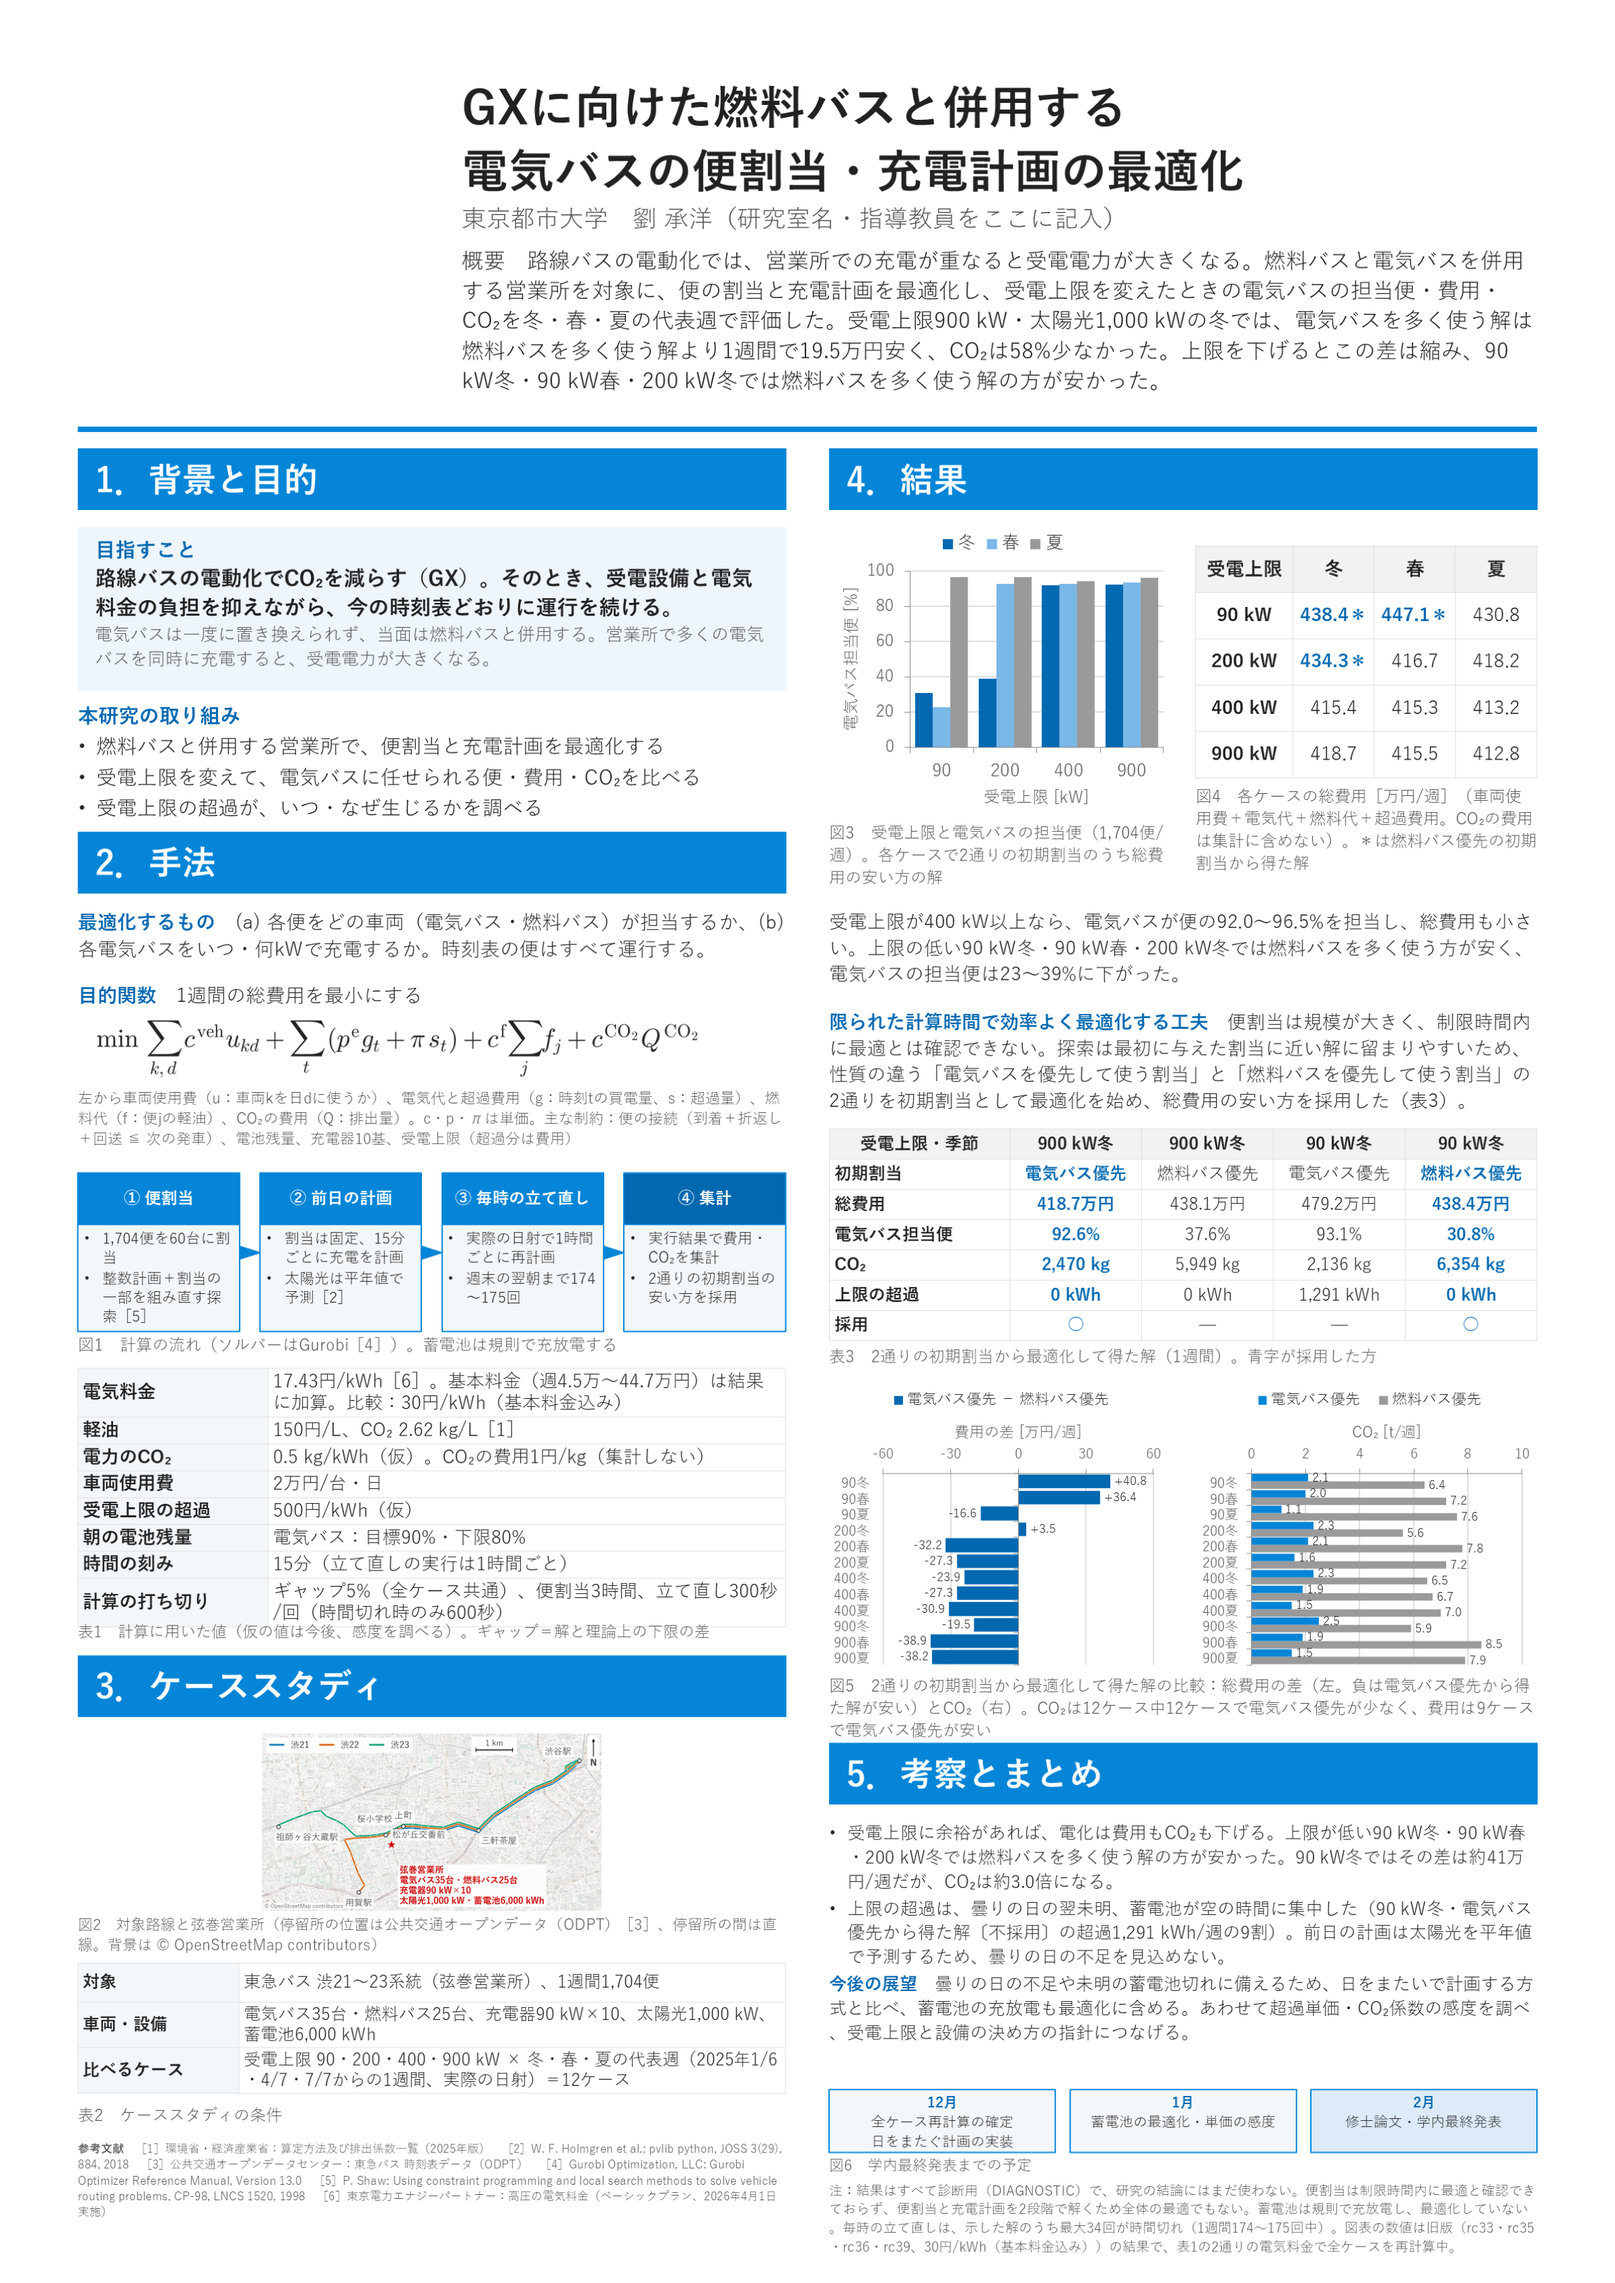
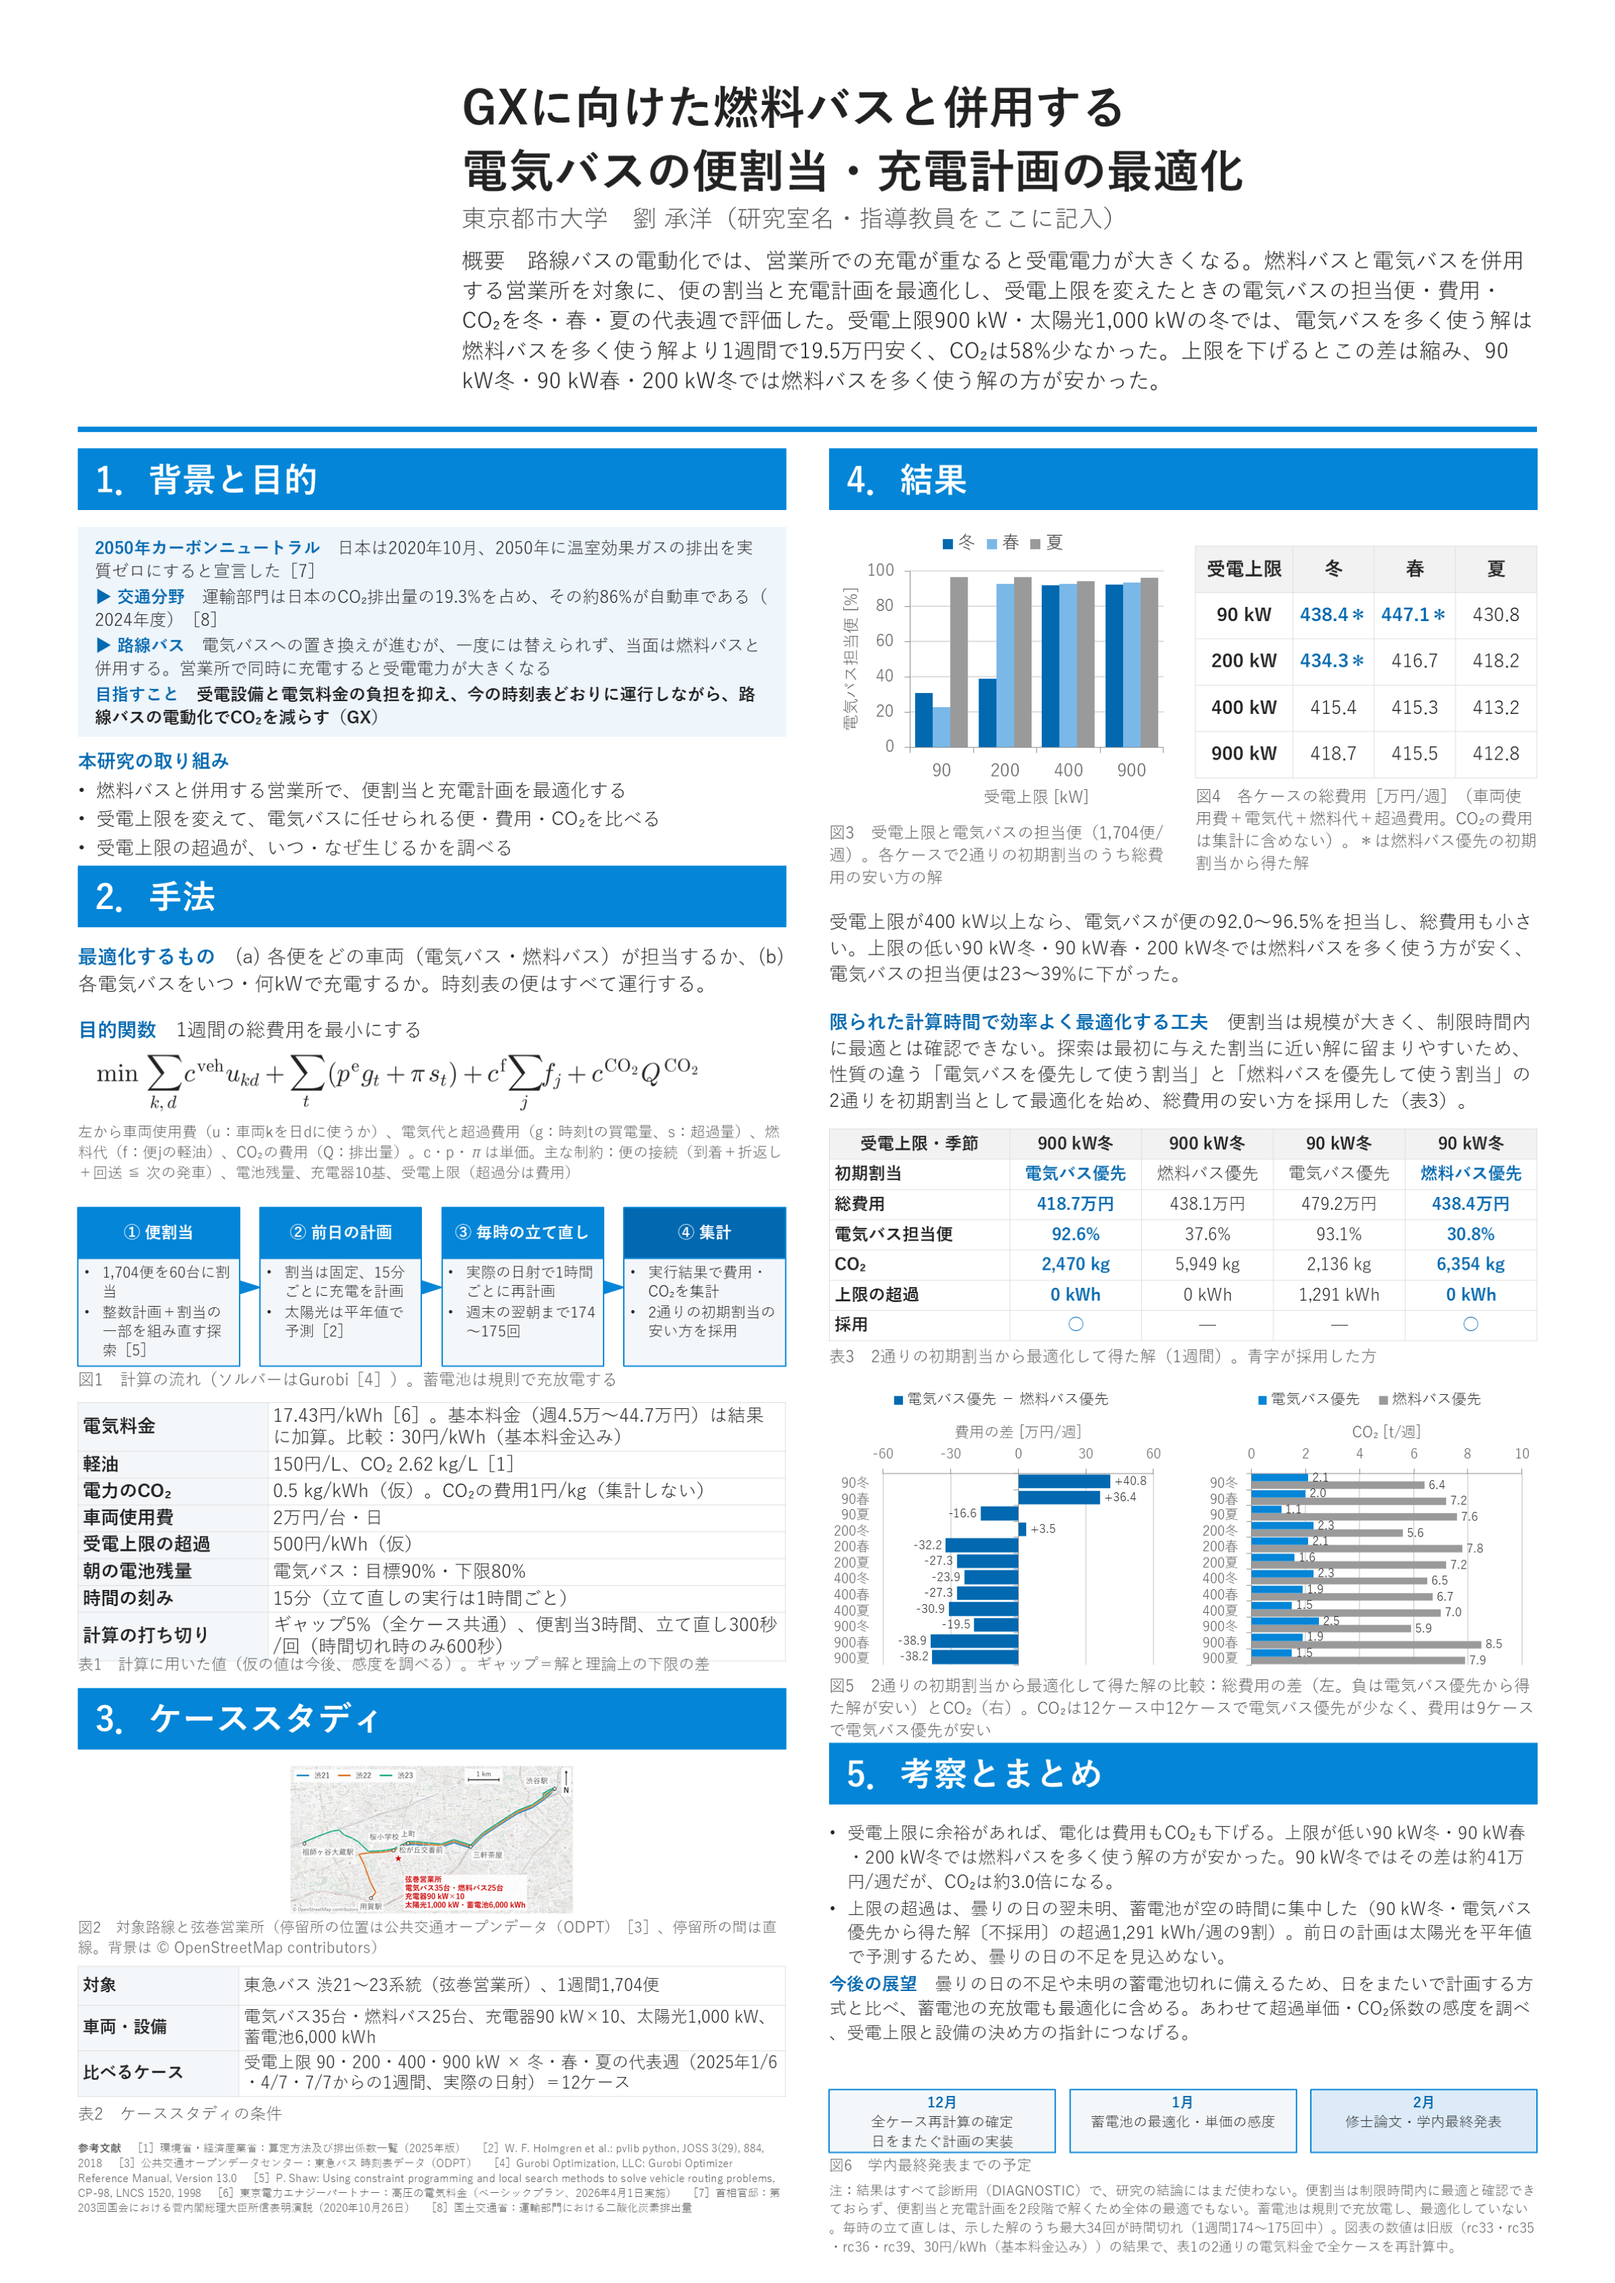
docs(poster): background opens with the 2050 carbon-neutral declaration, then transport (19.3 % of CO2, cars about 86 %, MLIT FY2024) and route buses
References [7] (Prime Minister's policy speech, 2020-10-26) and [8] (MLIT transport CO2 page) added;
left column tightened to fit.

Changed region(s): [[0.0312, 0.2187, 0.5, 0.9685]]

diff --git a/outcome/2026-11-28_midterm_poster/poster_layout_v2_ja.js b/outcome/2026-11-28_midterm_poster/poster_layout_v2_ja.js
@@ -19,17 +19,25 @@ module.exports = function layout(c) {
   // ---------------- left column
   let y = 9.2;
   y = section("1．背景と目的", LX, y, COL);
-  s.addShape(pres.shapes.RECTANGLE, { x: LX, y, w: COL, h: 3.35, fill: { color: "EEF5FB" }, line: { color: "EEF5FB" } });
-  text([{ text: "目指すこと", options: { bold: true, color: BLUE_DARK, fontSize: 30, breakLine: true } },
-    { text: "路線バスの電動化でCO₂を減らす（GX）。そのとき、受電設備と電気料金の負担を抑えながら、今の時刻表どおりに運行を続ける。", options: { bold: true, breakLine: true } },
-    { text: "電気バスは一度に置き換えられず、当面は燃料バスと併用する。営業所で多くの電気バスを同時に充電すると、受電電力が大きくなる。", options: { fontSize: 26, color: SUB } }],
-    { x: LX + 0.35, y: y + 0.2, w: COL - 0.7, h: 3.0, fontSize: 31 });
-  y += 3.6;
+  // 2026-11-16 (user): the background opens with the 2050 carbon-neutral declaration and narrows to transport and buses.
+  // Figures: MLIT "運輸部門における二酸化炭素排出量" (FY2024: 187.19 Mt, 19.3 % of 971.48 Mt; cars about 86 % of transport).
+  s.addShape(pres.shapes.RECTANGLE, { x: LX, y, w: COL, h: 4.3, fill: { color: "EEF5FB" }, line: { color: "EEF5FB" } });
+  const story = [
+    ["2050年カーボンニュートラル", "日本は2020年10月、2050年に温室効果ガスの排出を実質ゼロにすると宣言した［7］"],
+    ["交通分野", "運輸部門は日本のCO₂排出量の19.3%を占め、その約86%が自動車である（2024年度）［8］"],
+    ["路線バス", "電気バスへの置き換えが進むが、一度には替えられず、当面は燃料バスと併用する。営業所で同時に充電すると受電電力が大きくなる"]];
+  text(story.flatMap(([h, b], i) => [
+      { text: (i ? "▶ " : "") + h + "　", options: { bold: true, color: BLUE_DARK } },
+      { text: b, options: { breakLine: true } }]).concat([
+      { text: "目指すこと　", options: { bold: true, color: BLUE_DARK } },
+      { text: "受電設備と電気料金の負担を抑え、今の時刻表どおりに運行しながら、路線バスの電動化でCO₂を減らす（GX）", options: { bold: true } }]),
+    { x: LX + 0.35, y: y + 0.2, w: COL - 0.7, h: 3.95, fontSize: 25, paraSpaceAfter: 3 });
+  y += 4.55;
   text([{ text: "本研究の取り組み", options: { bold: true, color: BLUE_DARK, breakLine: true } },
     ...["燃料バスと併用する営業所で、便割当と充電計画を最適化する", "受電上限を変えて、電気バスに任せられる便・費用・CO₂を比べる", "受電上限の超過が、いつ・なぜ生じるかを調べる"]
       .map((t, i, a) => ({ text: t, options: { bullet: true, breakLine: i < a.length - 1 } }))],
-    { x: LX, y, w: COL, h: 2.5, fontSize: 30, paraSpaceAfter: 4 });
-  y += 2.65;
+    { x: LX, y, w: COL, h: 2.25, fontSize: 28, paraSpaceAfter: 4 });
+  y += 2.4;
 
   y = section("2．手法", LX, y, COL);
   text([{ text: "最適化するもの　", options: { bold: true, color: BLUE_DARK } },
@@ -59,14 +67,14 @@ module.exports = function layout(c) {
   const tbl = (rowsIn, x, yy, w, k = 3.9, fs = 27, rh = 0.56) => // rh: number or per-row array
    s.addTable(rowsIn.map(([a, b]) => [{ text: a, options: { bold: true, fill: { color: "F4F7FA" } } }, { text: b }]),
     { x, y: yy, w, colW: [k, w - k], fontSize: fs, fontFace: "Yu Gothic", color: INK, rowH: rh, valign: "middle", border: { type: "solid", pt: 1, color: GRID } });
-  const prh = params.map(([k]) => (k === "電気料金" || k === "計算の打ち切り" ? 0.95 : 0.53));
+  const prh = params.map(([k]) => (k === "電気料金" || k === "計算の打ち切り" ? 0.9 : 0.5));
   tbl(params, LX, y, COL, 3.9, 27, prh);
-  y += prh.reduce((a, b) => a + b, 0) + 0.1;
+  y += prh.reduce((a, b) => a + b, 0) + 0.35; // PowerPoint grows two-line rows beyond rowH
   caption("表1　計算に用いた値（仮の値は今後、感度を調べる）。ギャップ＝解と理論上の下限の差", LX, y, COL, 0.6, 23);
   y += 0.7;
 
   y = section("3．ケーススタディ", LX, y, COL);
-  const MAPW = COL * 0.48, MAPH = MAPW * 0.5221;
+  const MAPW = COL * 0.40, MAPH = MAPW * 0.5221;
   s.addImage({ path: path.join(__dirname, "route_map_ja_poster.png"), x: LX + (COL - MAPW) / 2, y, w: MAPW, h: MAPH, altText: "渋21・渋22・渋23の路線図と弦巻営業所の位置" });
   y += MAPH + 0.08;
   caption("図2　対象路線と弦巻営業所（停留所の位置は公共交通オープンデータ（ODPT）［3］、停留所の間は直線。背景は © OpenStreetMap contributors）", LX, y, COL, 1.0, 22);
@@ -74,12 +82,12 @@ module.exports = function layout(c) {
   const study = [["対象", "東急バス 渋21〜23系統（弦巻営業所）、1週間1,704便"], ["車両・設備", "電気バス35台・燃料バス25台、充電器90 kW×10、太陽光1,000 kW、蓄電池6,000 kWh"],
     ["比べるケース", "受電上限 90・200・400・900 kW × 冬・春・夏の代表週（2025年1/6・4/7・7/7からの1週間、実際の日射）＝12ケース"]];
   tbl(study, LX, y, COL, 3.3, 25, 0.8);
-  y += study.length * 0.8 + 0.5;
+  y += study.length * 0.8 + 0.4;
   caption("表2　ケーススタディの条件", LX, y, COL, 0.5, 24);
   if (y + 0.5 > 45.5 - 1.6) throw new Error(`left column overflows: ${y}`);
   text([{ text: "参考文献　", options: { bold: true } },
-    { text: "［1］環境省・経済産業省：算定方法及び排出係数一覧（2025年版）　［2］W. F. Holmgren et al.: pvlib python, JOSS 3(29), 884, 2018　［3］公共交通オープンデータセンター：東急バス 時刻表データ（ODPT）　［4］Gurobi Optimization, LLC: Gurobi Optimizer Reference Manual, Version 13.0　［5］P. Shaw: Using constraint programming and local search methods to solve vehicle routing problems, CP-98, LNCS 1520, 1998　［6］東京電力エナジーパートナー：高圧の電気料金（ベーシックプラン、2026年4月1日実施）" }],
-    { x: LX, y: 45.5 - 1.6, w: COL, h: 1.6, fontSize: 17, color: SUB });
+    { text: "［1］環境省・経済産業省：算定方法及び排出係数一覧（2025年版）　［2］W. F. Holmgren et al.: pvlib python, JOSS 3(29), 884, 2018　［3］公共交通オープンデータセンター：東急バス 時刻表データ（ODPT）　［4］Gurobi Optimization, LLC: Gurobi Optimizer Reference Manual, Version 13.0　［5］P. Shaw: Using constraint programming and local search methods to solve vehicle routing problems, CP-98, LNCS 1520, 1998　［6］東京電力エナジーパートナー：高圧の電気料金（ベーシックプラン、2026年4月1日実施）　［7］首相官邸：第203回国会における菅内閣総理大臣所信表明演説（2020年10月26日）　［8］国土交通省：運輸部門における二酸化炭素排出量" }],
+    { x: LX, y: 45.5 - 1.6, w: COL, h: 1.6, fontSize: 16, color: SUB });
 
   // ---------------- right column
   y = 9.2;
